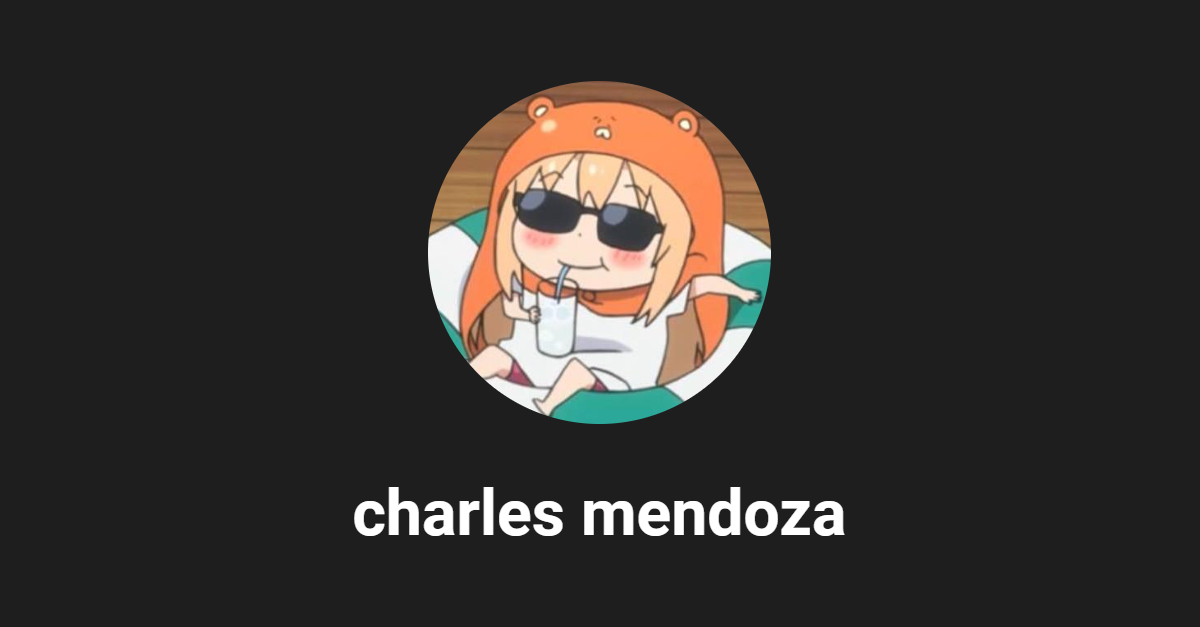
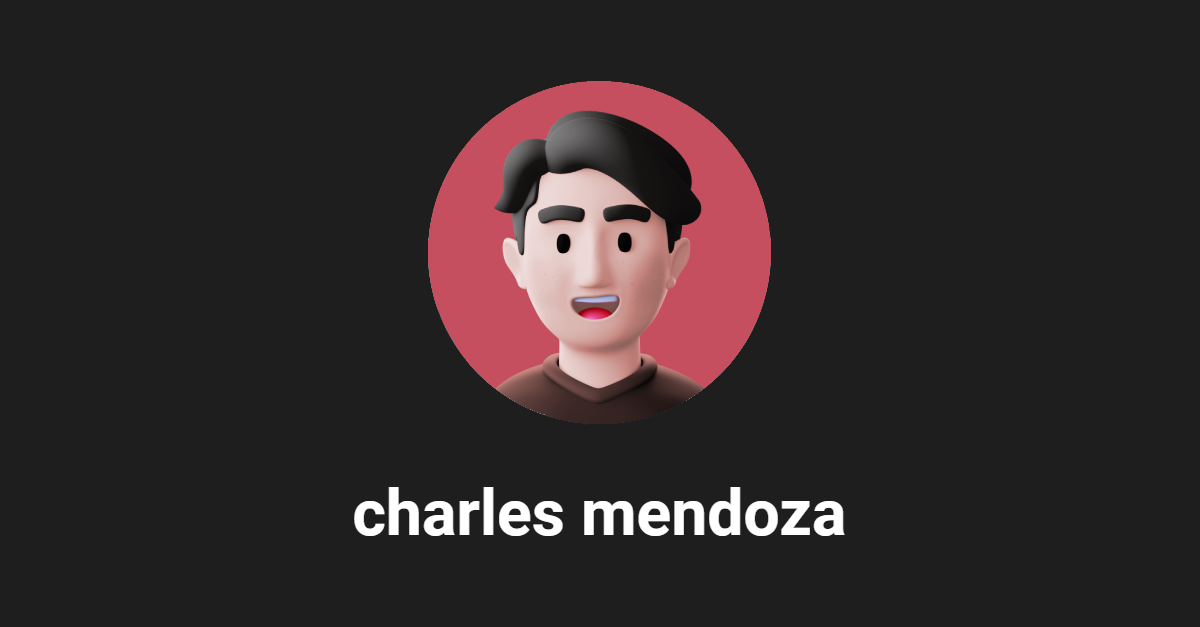
update about and displayed name

Changed region(s): [[0.3392, 0.1212, 0.6475, 0.697]]

diff --git a/index.html b/index.html
@@ -7,15 +7,15 @@
 	<meta name="robots" content="index, follow, max-image-preview:large, max-snippet:-1, max-video-preview:-1">
 
 	<!-- This site is optimized with the Yoast SEO plugin v18.1 - https://yoast.com/wordpress/plugins/seo/ -->
-	<title>kanamui - portfolio</title>
+	<title>charles - portfolio</title>
 	<meta name="description" content="Charles Mendoza&#039;s personal portfolio showcasing his projects and technology stack as a full-stack software developer.">
 	<link rel="canonical" href="https://kanamui.github.io/">
 	<meta property="og:locale" content="en_US">
 	<meta property="og:type" content="website">
-	<meta property="og:title" content="kanamui - portfolio">
+	<meta property="og:title" content="charles - portfolio">
 	<meta property="og:description" content="Charles Mendoza&#039;s personal portfolio showcasing his projects and technology stack as a full-stack software developer.">
 	<meta property="og:url" content="https://kanamui.github.io/">
-	<meta property="og:site_name" content="kanamui">
+	<meta property="og:site_name" content="charles">
 	<meta property="article:modified_time" content="2022-06-09T10:23:33+00:00">
 	<meta property="og:image" content="https://kanamui.github.io/wp-content/uploads/2022/06/kanamui.png">
 	<meta name="twitter:card" content="summary_large_image">
@@ -27,7 +27,7 @@
 	        {
 	            "@type": "Organization",
 	            "@id": "https://kanamui.github.io/#organization",
-	            "name": "kanamui",
+	            "name": "charles",
 	            "url": "https://kanamui.github.io/",
 	            "sameAs": [],
 	            "logo": {
@@ -38,7 +38,7 @@
 	                "contentUrl": "https://kanamui.github.io/wp-content/uploads/2022/06/kanamui.png",
 	                "width": 1200,
 	                "height": 627,
-	                "caption": "kanamui"
+	                "caption": "charles"
 	            },
 	            "image": {
 	                "@id": "https://kanamui.github.io/#logo"
@@ -48,7 +48,7 @@
 	            "@type": "WebSite",
 	            "@id": "https://kanamui.github.io/#website",
 	            "url": "https://kanamui.github.io/",
-	            "name": "kanamui",
+	            "name": "charles",
 	            "description": "portfolio",
 	            "publisher": {
 	                "@id": "https://kanamui.github.io/#organization"
@@ -76,7 +76,7 @@
 	            "@type": "WebPage",
 	            "@id": "https://kanamui.github.io/#webpage",
 	            "url": "https://kanamui.github.io/",
-	            "name": "kanamui - portfolio",
+	            "name": "charles - portfolio",
 	            "isPartOf": {
 	                "@id": "https://kanamui.github.io/#website"
 	            },
@@ -120,8 +120,8 @@
 
 <link rel="dns-prefetch" href="//fonts.googleapis.com">
 <link rel="dns-prefetch" href="//s.w.org">
-<link rel="alternate" type="application/rss+xml" title="kanamui &raquo; Feed" href="https://kanamui.github.io/feed/">
-<link rel="alternate" type="application/rss+xml" title="kanamui &raquo; Comments Feed" href="https://kanamui.github.io/comments/feed/">
+<link rel="alternate" type="application/rss+xml" title="charles &raquo; Feed" href="https://kanamui.github.io/feed/">
+<link rel="alternate" type="application/rss+xml" title="charles &raquo; Comments Feed" href="https://kanamui.github.io/comments/feed/">
 <script>
 window._wpemojiSettings = {"baseUrl":"https:\/\/s.w.org\/images\/core\/emoji\/14.0.0\/72x72\/","ext":".png","svgUrl":"https:\/\/s.w.org\/images\/core\/emoji\/14.0.0\/svg\/","svgExt":".svg","source":{"concatemoji":"https:\/\/kanamui.github.io\/wp-includes\/js\/wp-emoji-release.min.js?ver=6.0"}};
 /*! This file is auto-generated */
@@ -179,7 +179,7 @@ img.emoji {
 			<span class="logo-text">
 						<span class="logo-text-primary ">
 				<span class="fs-26 fs-xl-inherit">
-				kanamui				</span>
+				charles				</span>
 			</span><!-- .logo-text-primary -->
 								</span><!-- .logo-text -->
 	</a><!-- .logo -->
@@ -220,7 +220,7 @@ img.emoji {
 <div class="elementor-image-box-wrapper">
 <figure class="elementor-image-box-img"><img src="https://avatars.githubusercontent.com/u/28957075" title="" alt=""></figure><div class="elementor-image-box-content">
 <h3 class="elementor-image-box-title">charles mendoza</h3>
-<p class="elementor-image-box-description">I am a full-stack developer, well-versed in web technologies such as Laravel, PHP, JavaScript, MERN, SQL. I also code in Python and Java for solving or simulating challenging algorithm problems and advanced C/C++ programing for fun and Arduino embedded systems. I am a team player with a can-do attitude, passionate, well-driven, disciplined, and always up for challenges.</p>
+<p class="elementor-image-box-description">Charles is a results-driven Analyst and Web Developer with three years of industry experience. He specializes in ReactJS and Next.js, and has expertise in PHP, Laravel, JavaScript, and the MERN stack. Charles also excels in database management with skills in SQL, MongoDB, and Firebase. Additionally, he has demonstrated proficiency in React Native, leveraging it for Mobile Development endeavors.</p>
 </div>
 </div>		</div>
 				</div>
